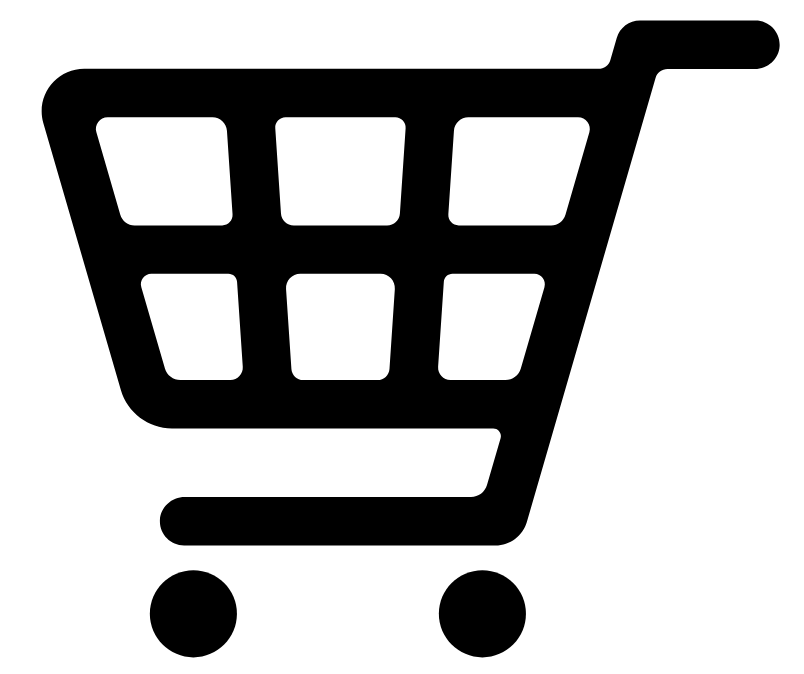
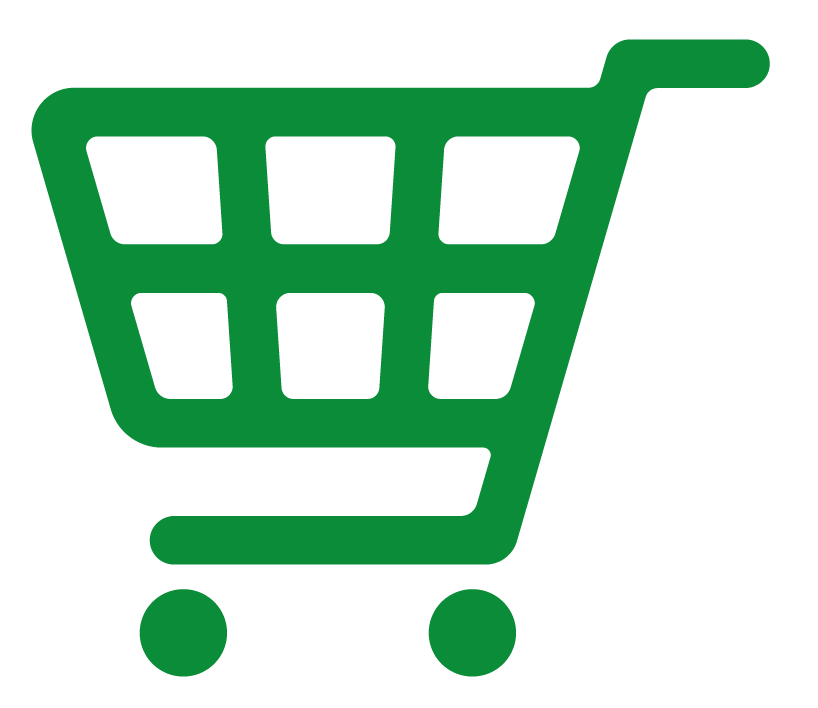
所々変更です（秋田）

diff --git a/static/css/base.css b/static/css/base.css
@@ -13,6 +13,10 @@ body {
   font-family: 'M PLUS Rounded 1c';
   margin: 0;
   padding: 0;
+  /* background-image: url("/static/img/animalmania_logo_kari.png"); */
+  background-size: cover; /* 画像を領域いっぱいに拡大縮小 */
+  background-position: center; /* 常に中央に表示 */
+  background-repeat: no-repeat; /* 画像の繰り返しを禁止 */
 }
 
 #main_body {
@@ -26,16 +30,16 @@ body {
 /* ーーーーーー */
 
 a:visited { 
-  color: rgb(150, 226, 28);
+  color: rgb(100, 212, 135);
 }
 
 a:hover {
-  color: #b78033;
+  color: rgb(0, 255, 81);
 }
 
-#work_image ul li a:hover {
+/* #work_image ul li a:hover {
   color: #b78033;
-}
+} */
 
 a:hover img { opacity: 0.4;}
 
@@ -63,19 +67,15 @@ a:hover img { opacity: 0.4;}
 
 nav {
   position: fixed;
-  bottom: 50px;
+  bottom: 30px;
   left: 0;
   font-weight: 600;
   font-family: 'Zen Kurenaido';
-  font-size: 21px;
+  font-size: 20.5px;
 }
 
 nav ul {
   list-style: none;
-}
-
-nav ul li {
-  margin-bottom: -3px;
 }
 
 nav ul li a {
@@ -85,13 +85,13 @@ nav ul li a {
 
 .nav_ul_li_a_01 {
   letter-spacing: -0.15em;
-  font-size: 19.5px;
+  font-size: 19px;
 }
 
 .nav_ul_li_a_02 {
   letter-spacing: -0.17em;
   font-size: 18px;
-  font-weight: bold;
+  font-weight: 600;
 }
 
 
@@ -110,7 +110,7 @@ nav ul li a {
   position: fixed;
   top: 0;
   right: 0;
-  width: 550px;
+  /* width: 610px; */
   height: 1500px;
   pointer-events: none;
   /* background-color: rgb(205, 22, 22); */
@@ -120,17 +120,16 @@ nav ul li a {
 
 #cart {
   pointer-events: auto;
-  width: 50px;
   position: fixed;
-  top: 17px;
-  right: 210px;
+  top: 25px;
+  right: 200px;
 }
 
 #cart_num {
   position: absolute;
   top: -8px;
   right: -8px;
-  background-color: #b78033;
+  background-color: rgb(15, 81, 36);
   color: white;
   font-size: 14px;
   font-weight: bold;
@@ -140,7 +139,7 @@ nav ul li a {
   display: flex;
   align-items: center;
   justify-content: center;
-  box-shadow: 0 0 3px rgba(0,0,0,0.3);
+  box-shadow: 0 0 3px rgba(13, 47, 13, 0.3);
 }
 
 /* 右部分しおり部分 */
@@ -151,7 +150,7 @@ nav ul li a {
   top: 0px;
   right: 280px;
   border-radius: 0px 0px 10px 10px;
-  background-color: rgb(44, 29, 16);
+  background-color: rgb(11, 158, 58);
   padding: 6px 15px 9px 15px;
   display: flex;
   flex-direction: column;
@@ -164,7 +163,7 @@ nav ul li a {
   top: 0px;
   right: 280px;
   border-radius: 0px 0px 10px 10px;
-  background-color: rgb(44, 29, 16);
+  background-color: rgb(11, 158, 58);
   padding: 8px 15px 10px 15px;
   display: flex;
   flex-direction: column;
@@ -201,13 +200,16 @@ nav ul li a {
 
 .personal_box_h2 {
   text-align: right;
-  margin-top: 7px;
+  margin-top: 8px;
   margin-bottom: 5px;
   font-size: 24px;
   font-family: 'Zen Kurenaido';
   font-weight: 400;
-  line-height: 20px;
-  max-width: 300px;
+  line-height: 22px;
+  max-width: 600px;
+  overflow-wrap: break-word;
+  word-break: keep-all;
+  overflow-wrap: break-word
 }
 .personal_box_h3 {
   margin-left: 9px;
@@ -266,7 +268,7 @@ nav ul li a {
 }
 
 .hamburger_line {
-  border: 2px solid rgb(44, 29, 16);
+  border: 2px solid rgb(11, 158, 58);
   border-radius: 5px;
   margin-bottom: 13px;
   width: 80%;
@@ -290,10 +292,9 @@ nav ul li a {
   border-radius: 5px;
   margin: 90px 46px 0px 0px;
   display: none;
-  background-color: #ffffff;
-  opacity: 0.8;
+  background-color: rgba(255, 255, 255, 0.9);
   font-family: 'Zen Kurenaido';
-  font-size: 20px;
+  font-size: 18px;
   font-weight: 600;
 }
 
@@ -312,7 +313,7 @@ nav ul li a {
 #hamburger_menu_content_02 {
   margin: 2px 23px 2px 17px;
   list-style: none;
-  border: 0.1px solid rgb(44, 29, 16);
+  border: 0.1px solid rgb(255, 255, 255);
   border-radius: 5px;
 }
 
@@ -329,15 +330,22 @@ nav ul li a {
 }
 
 .hamburger_menu_content_h3 {
-  color: rgb(44, 29, 16);
-  font-size: 28px;
+  color: rgb(15, 81, 36);
+  font-size: 25px;
   font-weight: 900;
-  margin: -5px 0px 20px 0px;
+  margin: -5px 0px 2px 0px;
   text-align: right;
+  line-height: 26px;
+  max-width: 270px;
+  overflow-wrap: break-word;
+  word-break: keep-all;
+  overflow-wrap: break-word;
 }
 
 .hamburger_menu_content_h3 span {
-  font-size: 20px;
+  font-family: 'M PLUS Rounded 1c';
+  font-weight: 400;
+  font-size: 16px;
 }
 
 
@@ -359,14 +367,14 @@ nav ul li a {
 .pagetop_arrow {
   height: 40px;
   width: 40px;
-  border-top: 2.5px solid rgb(44, 29, 16);
-  border-right: 2.5px solid rgb(44, 29, 16);
+  border-top: 2.5px solid rgb(11, 158, 58);
+  border-right: 2.5px solid rgb(11, 158, 58);
   border-top-right-radius: 6px;
   transform: translateY(20%) rotate(-45deg);
 }
 
 .pagetop_lang {
-  color: rgb(44, 29, 16);
+  color: rgb(11, 158, 58);
   text-align: center;
   line-height: 18px;
   font-weight: 600;
@@ -379,15 +387,21 @@ footer {
   text-align: center;
 }
 
+#footer_box {
+  background-color: rgb(11, 158, 58);
+}
+
 #footer_nav {
-  background-color: rgb(77, 205, 22);
+  background-color: rgb(11, 158, 58);
   font-family: 'Zen Kurenaido Regular';
+  padding-top: 5px;
 }
 
 #footer_nav ul {
   display: flex;
   justify-content: center;
   list-style: none;
+  margin-bottom: -10px;
 }
 
 #footer_nav ul li {
@@ -398,6 +412,12 @@ footer {
   text-decoration: none;
   font-size: 16px;
 }
+
+#footer_box small {
+  color: #ffffff;
+}
+
+
 
 
 

diff --git a/common/templates/common/base.html b/common/templates/common/base.html
@@ -186,7 +186,7 @@
 
                 <div id="cart">
                     <a href="{% url 'goods:cart_view' %}">
-                        <img src="{% static 'img/shop_cart_01.png' %}" alt="アニマニアカート" width="65">
+                        <img src="{% static 'img/shop_cart_01.png' %}" alt="アニマニアカート" width="50">
                         {% if total_quantity > 0 %}
                         <span id="cart_num">{{ total_quantity }}</span>
                         {% endif %}
@@ -266,22 +266,32 @@
         </div>
 
         <footer>
-            <div id="footer_nav">
-                <ul>
-                    <li><a href="{% url 'main:index' %}">トップ</a></li>
-                    <li><a href="{% url 'pages:about' %}">アバウト</a></li>
-                    <li><a href="{% url 'ranking:index' %}">アニマルランキング</a></li>
-                    <li><a href="#">動物たちの様子を見る</a></li>
-                    <li><a href="#">チアコとスタポのしくみ</a></li>
-                </ul>
-                <ul>
-                    <li><a href="{% url 'money:charge' %}">チアコを買う</a></li>
-                    <li><a href="{% url 'goods:goods_list' %}">グッズ交換する</a></li>
-                </ul>
+            
+            <div id="footer_goodsimages_move">
             </div>
-            <small>アニマルマニア</small>
-            <br>
-            <br>
+
+            <div id="footer_forest">
+                <img class="" src="{% static 'img/####.png' %}" alt="footer_forest">
+            </div>
+
+            <div id="footer_box">
+                <div id="footer_nav">
+                    <ul>
+                        <li><a href="{% url 'main:index' %}">トップ</a></li>
+                        <li><a href="{% url 'pages:about' %}">アバウト</a></li>
+                        <li><a href="{% url 'ranking:index' %}">アニマルランキング</a></li>
+                        <li><a href="#">動物たちの様子を見る</a></li>
+                    </ul>
+                    <ul>
+                        <li><a href="#">チアコとスタポのしくみ</a></li>
+                        <li><a href="{% url 'money:charge' %}">チアコを買う</a></li>
+                        <li><a href="{% url 'goods:goods_list' %}">グッズ交換する</a></li>
+                    </ul>
+                </div>
+                <br><br>
+                <small>アニマルマニア</small>
+                <br><br><br><br>
+            </div>
         </footer>
         
     </body>
